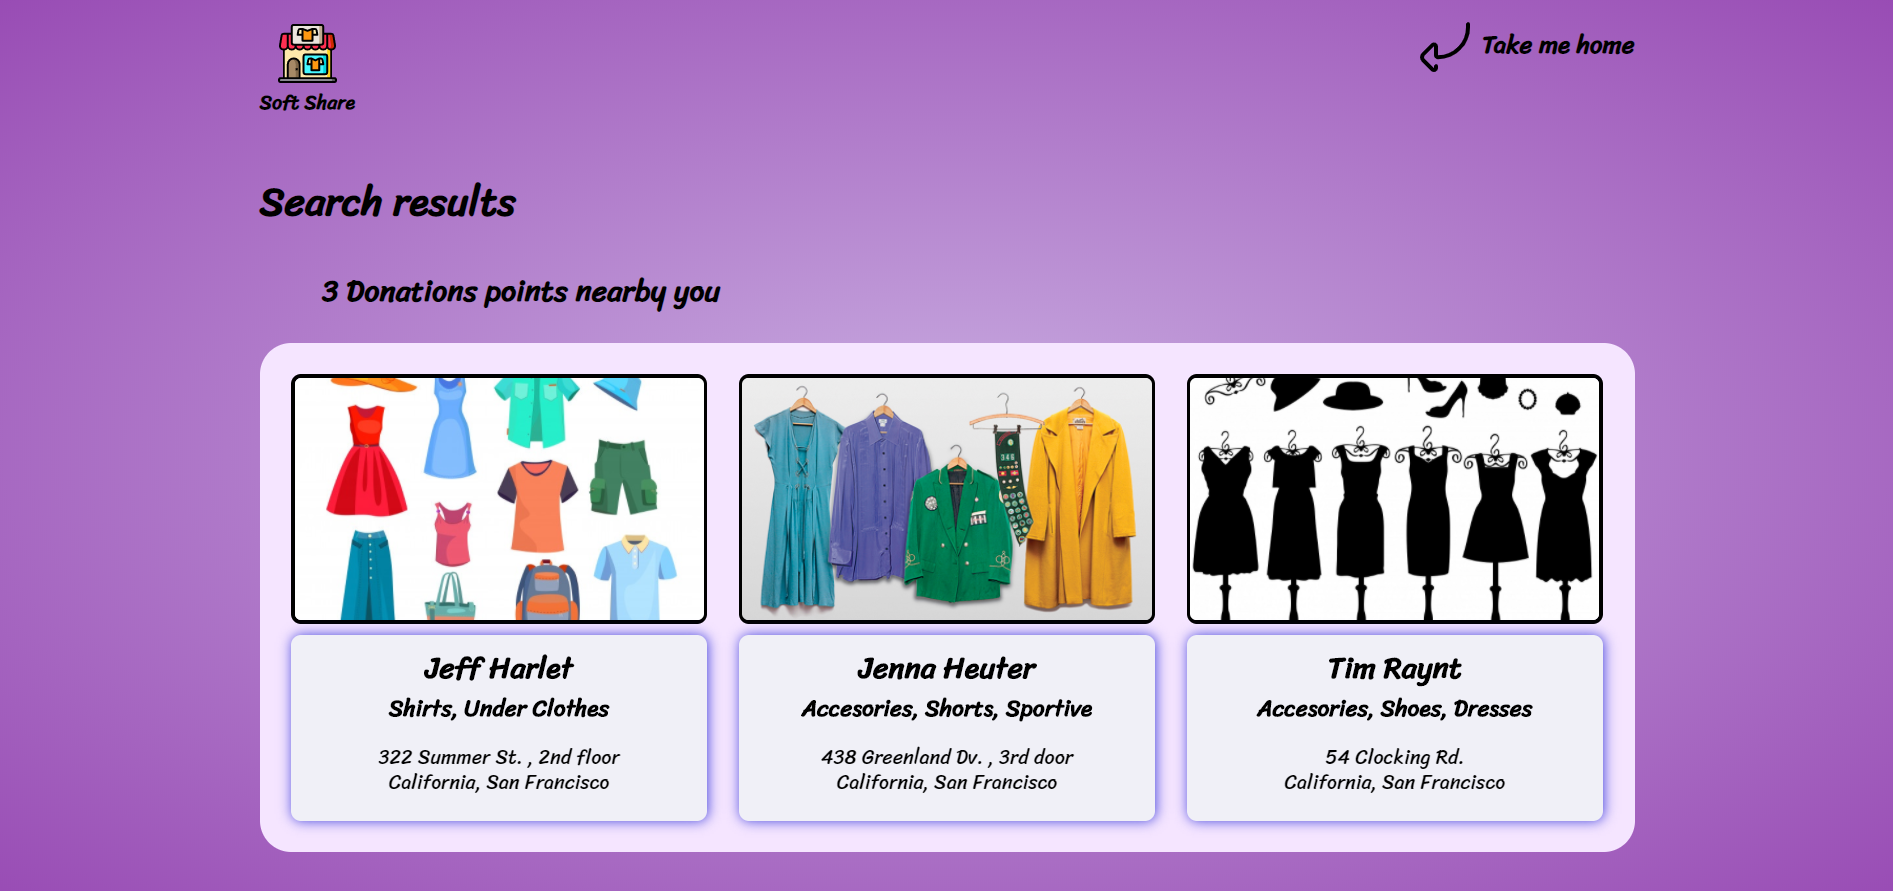
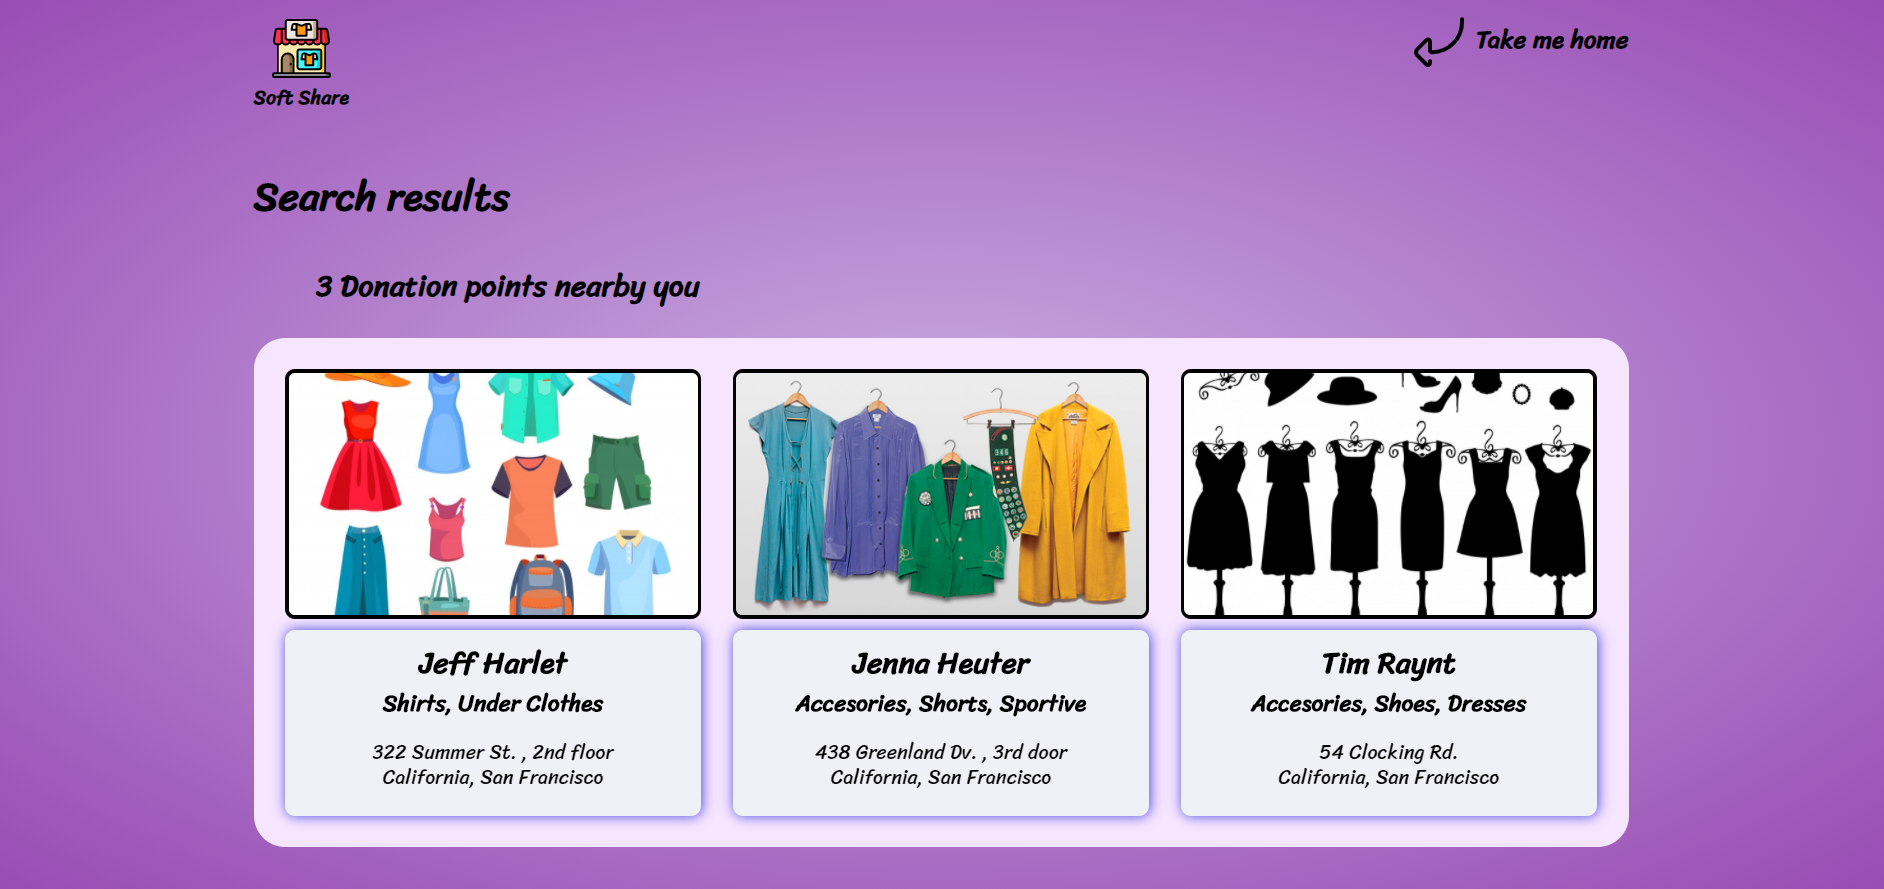
Minor bug fix

diff --git a/src/views/search_results.html b/src/views/search_results.html
@@ -22,7 +22,7 @@
                 <strong>
                     {{total}}
                 </strong>
-                Donations points nearby you
+                Donation points nearby you
             </h2>
 
             <div class="cardGrid">
